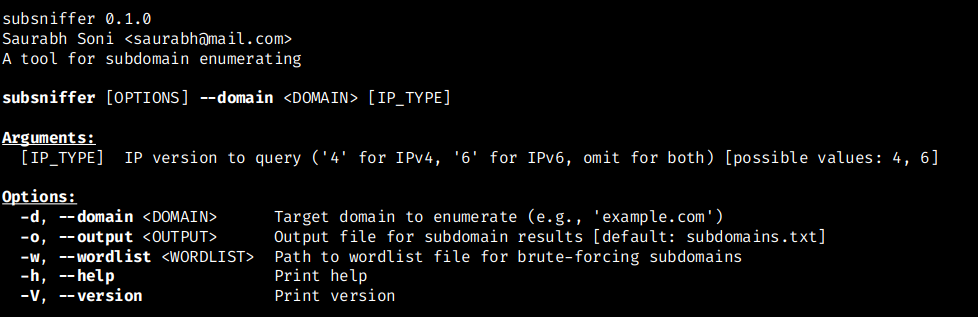
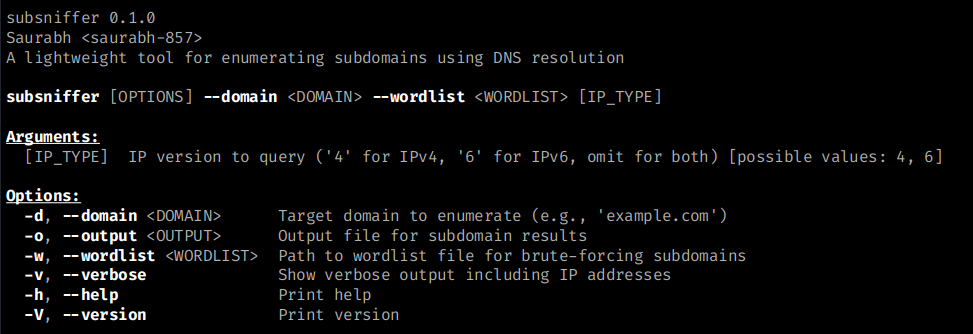
update for v0.1.0

diff --git a/README.md b/README.md
@@ -3,41 +3,62 @@
 ![Rust](https://img.shields.io/badge/Rust-1.87-orange.svg)
 ![License](https://img.shields.io/badge/license-MIT-blue.svg)
 
-SubSniffer is a lightweight tool for enumerating subdomains of a target domain using DNS resolution. Built in Rust, it supports both IPv4 and IPv6 lookups and can use custom wordlists for brute-forcing subdomains.
+SubSniffer is a command-line tool for enumerating subdomains of a specified domain using DNS resolution. It supports both IPv4 and IPv6 lookups with custom wordlists for brute-forcing. 
 
 ## Features
 
 - Enumerate subdomains for a given domain
-- Support for IPv4, IPv6, or both (default) DNS lookups
-- Custom wordlist support for brute-forcing
-- Output results to a file
+- Support for IPv4, IPv6, or both address types
+- Uses a wordlist for brute-forcing
+- Output results to the console or a file
+- Verbose mode to display IP addresses and unresolved subdomains.
 - Fast and efficient using asynchronous DNS resolution
 - Easy-to-use command-line interface
 
-## Prerequisites
-
-To run SubSniffer, ensure you have installed latest version of [Rust](https://www.rust-lang.org/tools/install) (recommended rustc 1.87.0).
-
 ## Installation
 
-1. **Clone the repository**:
+### Option 1: Install via Debian Package (Kali Linux, amd64)
+
+1. Download the latest .deb package:
+    
+    ```bash
+    wget https://github.com/saurabh-857/subsniffer/releases/download/v0.1.0/subsniffer_0.1.0-1_amd64.deb
+    ```
+    
+2. Install the tool:
+    
+    ```bash
+    sudo dpkg -i subsniffer_0.1.0-1_amd64.deb
+    ```
+    
+3. Install missing dependencies:
+    
+    ```bash
+    sudo apt install -f
+    ```
+    
+
+### Option 2: Install via Cargo
+
+Ensure you have installed latest version of [Rust](https://www.rust-lang.org/tools/install) (recommended 1.87.0).
+
+1. Clone the repository:
     
     ```bash
     git clone https://github.com/saurabh-857/subsniffer.git
     ```
     
-2. **Navigate to the project directory**:
+2. Navigate to the project directory:
     
     ```bash
     cd subsniffer
     ```
     
-3. **Install the tool**:
+3. Install the tool:
     
     ```bash
     cargo install --path .
     ```
-    
     This installs `subsniffer` globally for the user, allowing it to be run from any directory.
     
 
@@ -47,62 +68,36 @@ To run SubSniffer, ensure you have installed latest version of [Rust](https://ww
 
 Run `subsniffer -h` to display the help message:
 
-```bash
-subsniffer -h
-```
-
-This will show available options and their descriptions:
-
 ![help screenshot](images/help.png)
 
 ### Examples
 
-1. **Enumerate subdomains with default settings** (uses common subdomains, queries both IPv4 and IPv6):
-    
-    ```bash
-    subsniffer -d example.com
-    ```
-    
-2. **Enumerate subdomains with a custom wordlist**:
-    
-    ```bash
-    subsniffer -d example.com -w wordlist.txt
-    ```
-    
-3. **Enumerate subdomains for IPv4 only**:
-    
-    ```bash
-    subsniffer -d example.com 4
-    ```
-    
-4. **Enumerate subdomains for IPv6 only**:
-    
-    ```bash
-    subsniffer -d example.com 6
-    ```
-    
-5. **Specify a custom output file**:
-    
-    ```bash
-    subsniffer -d example.com -o results.txt
-    ```
-    
+1. **Enumerate subdomains for example.com using a wordlist**:
+	  ```bash
+	subsniffer -d example.com -w wordlist.txt
+	```
 
-### Example Output
+2. **Enumerate subdomains with verbose output and save results to a file**:
+	  ```bash
+	subsniffer -d example.com -w wordlist.txt -o results.txt -v
+	```
 
-Running `subsniffer -d example.com` might produce:
-
-```
-[+] Target domain: example.com
-example.com -> 93.184.216.34
-www.example.com -> 93.184.216.34
-```
-
-Results are also saved to the specified output file (e.g., `subdomains.txt`).
+3. **Enumerate subdomains querying only IPv6 addresses**:
+	  ```bash
+	subsniffer -d example.com -w wordlist.txt -o results.txt -v 6
+	```
 
 ## Uninstallation
 
 To remove SubSniffer from your system:
+
+### Via Debian Package
+
+```bash
+sudo apt remove subsniffer
+```
+
+### Via Cargo
 
 ```bash
 cargo uninstall subsniffer
@@ -110,7 +105,7 @@ cargo uninstall subsniffer
 
 ## Contributing
 
-Contributions are welcome! Whether it's reporting bugs, suggesting features, or submitting code, we appreciate your help. Please read our [CONTRIBUTING.md](./CONTRIBUTING.md) file for guidelines on how to contribute.
+Contributions are welcome! Please read our [CONTRIBUTING.md](./CONTRIBUTING.md) file for guidelines on how to contribute.
 
 ## License
 
